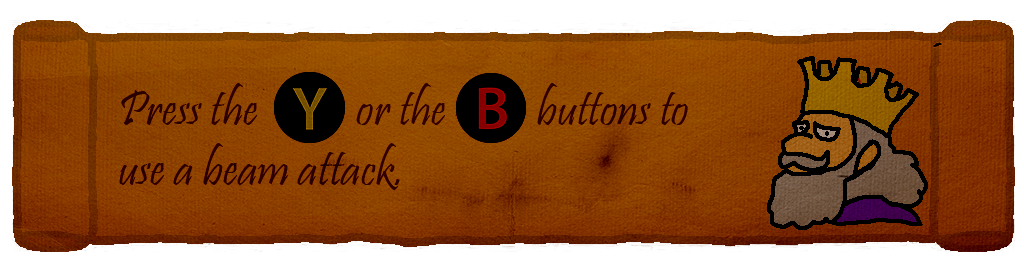
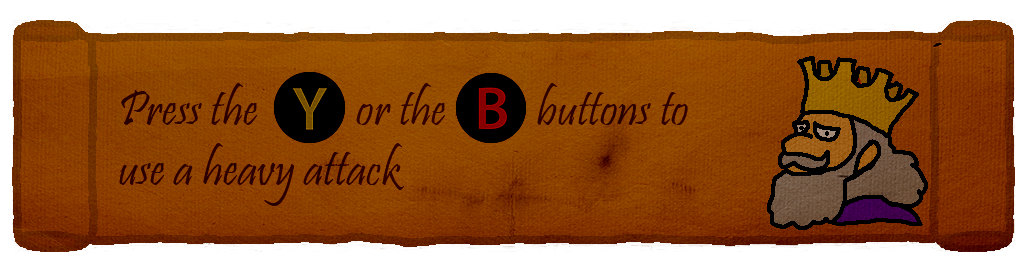
AAAAND the tutorial is basically done

Changed region(s): [[0.25, 0.5143, 0.4062, 0.7429], [0.1875, 0.6, 0.2188, 0.6571]]

diff --git a/TemplateCocosProject-master/Classes/TutorialScene.cpp b/TemplateCocosProject-master/Classes/TutorialScene.cpp
@@ -142,6 +142,7 @@ bool TutorialScene::init()
 	this->addChild(tryMove, -2);
 	scrolls.push_back(tryMove);
 
+	//Try dashing
 	tryDash = Sprite::create("Assets/TryRTLT.png");
 	tryDash->setPosition(visibleSize.width / 2, (visibleSize.height / 2) + 300);
 	tryDash->setScale(3);
@@ -150,6 +151,7 @@ bool TutorialScene::init()
 	this->addChild(tryDash, -2);
 	scrolls.push_back(tryDash);
 
+	//try attacking
 	TryAttack = Sprite::create("Assets/TryX.png");
 	TryAttack->setPosition(visibleSize.width / 2, (visibleSize.height / 2) + 300);
 	TryAttack->setScale(3);
@@ -158,6 +160,7 @@ bool TutorialScene::init()
 	this->addChild(TryAttack, -2);
 	scrolls.push_back(TryAttack);
 
+	//after sheep 1 dead
 	scroll4 = Sprite::create("Assets/tutorial4.png");
 	scroll4->setPosition(visibleSize.width / 2, (visibleSize.height / 2)+300);
 	scroll4->setScale(3);
@@ -166,6 +169,7 @@ bool TutorialScene::init()
 	this->addChild(scroll4, -2);
 	scrolls.push_back(scroll4);
 
+	//use heavy attack
 	scroll5 = Sprite::create("Assets/YorBbeam.png");
 	scroll5->setPosition(visibleSize.width / 2, (visibleSize.height / 2)+300);
 	scroll5->setScale(3);
@@ -174,22 +178,7 @@ bool TutorialScene::init()
 	this->addChild(scroll5, -2);
 	scrolls.push_back(scroll5);
 
-	scroll6 = Sprite::create("Assets/tutorial6.png");
-	scroll6->setPosition(visibleSize.width / 2, (visibleSize.height / 2)+300);
-	scroll6->setScale(3);
-	scroll6->setAnchorPoint(Vec2(0.5f, 0.5f));
-
-	this->addChild(scroll6, -2);
-	scrolls.push_back(scroll6);
-
-	scroll7 = Sprite::create("Assets/tutorial7.png");
-	scroll7->setPosition(visibleSize.width / 2, (visibleSize.height / 2)+300);
-	scroll7->setScale(3);
-	scroll7->setAnchorPoint(Vec2(0.5f, 0.5f));
-
-	this->addChild(scroll7, -2);
-	scrolls.push_back(scroll7);
-
+	//after that sheep dead
 	scroll8 = Sprite::create("Assets/tutorial8.png");
 	scroll8->setPosition(visibleSize.width / 2, (visibleSize.height / 2)+300);
 	scroll8->setScale(3);
@@ -214,8 +203,14 @@ bool TutorialScene::init()
 	this->addChild(scroll10, -2);
 	scrolls.push_back(scroll10);
 
-	//Try button scrolls
-	
+	//press start scroll
+	startScroll = Sprite::create("Assets/Start.png");
+	startScroll->setPosition(visibleSize.width / 2, (visibleSize.height / 2) + 300);
+	startScroll->setScale(3);
+	startScroll->setAnchorPoint(Vec2(0.5f, 0.5f));
+
+	this->addChild(startScroll, -2);
+	scrolls.push_back(startScroll);
 
 	//Collision stuff
 	contact();
@@ -466,7 +461,6 @@ void TutorialScene::update(float dt)
 		  {
 			  scrolls[5]->setZOrder(-2);
 			  scrolls[6]->setZOrder(2);
-			  //sheep->setZOrder(-2);
 			  theRealDT = 0;
 			  sheep->sheep2 = true;
 		  }
@@ -474,18 +468,32 @@ void TutorialScene::update(float dt)
 		  {
 			  scrolls[6]->setZOrder(-2);
 			  scrolls[7]->setZOrder(2);
-			  //sheep->setZOrder(1);
 		  }
 		  else if (scrolls[7]->getZOrder() == 2 && theRealDT >= 6 && sheep->sheep2 == false)
 		  {
 			  scrolls[7]->setZOrder(-2);
 			  scrolls[8]->setZOrder(2);
+			  theRealDT = 0;
 		  }
-		  else if (scrolls[8]->getZOrder() == 2 && theRealDT >= 9)
+		  else if (scrolls[8]->getZOrder() == 2 && theRealDT >= 3)
 		  {
 			  scrolls[8]->setZOrder(-2);
 			  scrolls[9]->setZOrder(2);
 			  this->removeChild(sheep);
+		  }
+		  else if (scrolls[9]->getZOrder() == 2 && theRealDT >= 6)
+		  {
+			  scrolls[9]->setZOrder(-2);
+			  scrolls[10]->setZOrder(2);
+		  }
+		  else if (scrolls[10]->getZOrder() == 2 && theRealDT >= 9)
+		  {
+			  scrolls[10]->setZOrder(-2);
+			  scrolls[11]->setZOrder(2);
+		  }
+		  else if (scrolls[11]->getZOrder() == 2 && theRealDT >= 12)
+		  {
+			  
 		  }
 
 	  }

diff --git a/TemplateCocosProject-master/Classes/TutorialScene.h b/TemplateCocosProject-master/Classes/TutorialScene.h
@@ -171,6 +171,7 @@ private:
 	cocos2d::Sprite* tryMove;
 	cocos2d::Sprite* tryDash;
 	cocos2d::Sprite* TryAttack;
+	cocos2d::Sprite* startScroll;
 
 	std::vector<Sprite*>scrolls;
 
